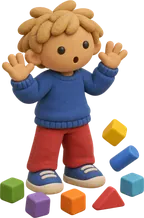
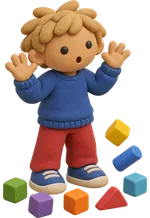
097: kid6 error picture gets a transparent side margin; test: no kid picture clipped by a side border (#1641 review)

diff --git a/scripts/test-realoffice-assets.ts b/scripts/test-realoffice-assets.ts
@@ -396,6 +396,24 @@ if (worldIds.includes('retro')) {
   else { const r = spawnSync('python3', ['-I', script, '--selftest'], { encoding: 'utf8' }); assert.strictEqual(r.status, 0, 'build-arcade-pack.py --selftest: ' + r.stdout + r.stderr); }
 }
 
+{
+  /* spec 097 FR-371 (issue #1641 review): no kid picture is clipped by a side border. A tight crop of a whole cube or stool may rest on the
+   * edge (the most in the shipped 42 is 47 rows of 220, a stool's flat side), a clipped figure runs far more: the count is of rows with
+   * alpha > 128 in the first and the last column (scripts/kid-edge-rows.py decodes the WebP; plain Node cannot): needs python3 with Pillow. */
+  const MAX_EDGE_ROWS = 48;
+  const have = spawnSync('python3', ['-I', '-c', 'import PIL'], { encoding: 'utf8' });
+  if (have.error || have.status !== 0) console.log('kid edge check skipped: needs python3 with Pillow (not on this machine)');
+  else {
+    const dir = path.join(RO, 'worlds', 'photo'), names = fs.readdirSync(dir).filter((f) => /^kid\d-\w+\.webp$/.test(f)).sort();
+    assert.strictEqual(names.length, 42, 'the edge check sees all 42 kid pictures');
+    const run = (args: string[]) => { const r = spawnSync('python3', ['-I', path.join(ROOT, 'scripts', 'kid-edge-rows.py'), ...args], { encoding: 'utf8' }); assert.strictEqual(r.status, 0, 'kid-edge-rows.py: ' + r.stderr); return r.stdout.trim().split('\n').map((l) => l.split(' ')); };
+    const bad = run(names.map((n) => path.join(dir, n))).filter(([, l, r]) => Number(l) > MAX_EDGE_ROWS || Number(r) > MAX_EDGE_ROWS).map(([n, l, r]) => `${n}: ${l} rows on the left edge, ${r} on the right`);
+    assert.deepStrictEqual(bad, [], `kid pictures clipped by a side border (more than ${MAX_EDGE_ROWS} opaque rows on an edge): re-cut with a margin`);
+    const red = run(['--red'])[0];
+    assert.ok(Number(red[1]) > MAX_EDGE_ROWS && Number(red[2]) === 0, 'red: a picture cut flat on its left edge (90 opaque rows) is over the limit');
+  }
+}
+
 // ---- packaging (FR-060, FR-061, T012): the build ships each pack's pictures and its script, never ASSETS.md or the JSON; the CSP is unchanged ----
 const copy = fs.readFileSync(path.join(ROOT, 'scripts', 'copy-assets.js'), 'utf8');
 assert.ok(/'worlds', 'world', 'DurbarRealOfficeWorlds'/.test(copy) && /'sets', 'set', 'DurbarRealOfficeSets'/.test(copy), 'copy-assets.js copies realoffice/worlds and realoffice/sets');

diff --git a/scripts/kid-edge-rows.py b/scripts/kid-edge-rows.py
@@ -1,0 +1,18 @@
+#!/usr/bin/env python3
+"""Rows with alpha > 128 in the first and the last column of each WebP given (spec 097 FR-371, used by test-realoffice-assets.ts).
+    python3 -I scripts/kid-edge-rows.py a.webp b.webp   ->  one line per file: <name> <left rows> <right rows>
+    python3 -I scripts/kid-edge-rows.py --red           ->  a built-in picture cut flat on its left edge (the test's red case)"""
+import os, sys
+from PIL import Image
+
+def rows(im):
+    a = im.convert('RGBA').getchannel('A'); w, h = a.size; p = a.load()
+    return [sum(p[x, y] > 128 for y in range(h)) for x in (0, w - 1)]
+
+if sys.argv[1:] == ['--red']:
+    im = Image.new('RGBA', (60, 90), (0, 0, 0, 0))
+    for y in range(90):
+        for x in range(30): im.putpixel((x, y), (200, 0, 0, 255))
+    print('red', *rows(im))
+else:
+    for f in sys.argv[1:]: print(os.path.basename(f), *rows(Image.open(f)))

diff --git a/src/renderer/realoffice/worlds/photo/ASSETS.md b/src/renderer/realoffice/worlds/photo/ASSETS.md
@@ -160,6 +160,7 @@ in the repository.
 - reference: `ref/kid6-ref.png` = kid 6 cropped from the style sheet `1-kids-sheet.png` (see *References* below), passed with `-i`; command: `timeout 600 codex exec --skip-git-repo-check --ephemeral -s workspace-write -C run-kid6 -i ref/kid6-ref.png -- "<prompt>" < /dev/null`
 - prompt: A wide landscape pose sheet, 2172x724 pixels, of the SAME single clay-toy kid shown in the attached reference image (kid 6: light olive clay skin, sandy blond messy tousled hair, blue knitted sweatshirt with ribbed cuffs, red trousers, blue sneakers; keep exactly this kid's clay look, skin tone, hair and clothes in every figure), shown SEVEN times in one row left to right, each a separate figure, with WIDE empty gaps between figures so no two figures or props touch or overlap, on a fully TRANSPARENT background (PNG with alpha channel; if transparency is impossible, a perfectly flat plain light grey background with no shadow plane). Fun and playful, cheeky but friendly expressions. 1 WORKING: sitting, happily typing on a tiny toy laptop, tongue poking out in concentration. 2 THINKING: standing, one finger on the chin, eyes looking up, holding a small toy light bulb in the other hand. 3 WAITING: sitting on a small wooden toy block, swinging legs, looking at a small round toy alarm clock beside it (the clock face has only two hands and plain dots, no numbers). 4 ERROR: a small toy block tower toppled at its feet, both hands up, mouth a round 'oops'. 5 OUT OF COINS: pockets turned out, holding a tiny empty toy piggy bank upside down, a comic shrug. 6 DONE: jumping in the air, both arms up, cheering, big happy smile, no confetti. 7 ASLEEP: curled up asleep on top of a small zipped pencil case, eyes closed as simple curved lines, no zzz letters. Every figure is a stylised handmade plasticine / Play-Doh toy, clearly a toy, never a realistic child: rounded soft clay shapes, smooth matte clay with faint fingerprint marks, simple dot eyes, stubby hands with simple clay fingers; invented fictional figure, no likeness of any real person, fully dressed. Same slightly elevated three-quarter front camera about 20 degrees down as the reference, soft warm daylight, gentle soft shadows on the figures only. Photoreal 3D render of clay toys, cute, friendly, not creepy. No text, no letters, no numbers, no logos, no labels.
 - cut: the sheet's alpha channel is the generator's own (no background removal, alpha below 10 cleared): the 7 largest alpha blobs are the figures, left to right = working, thinking, waiting, error, limit, done, asleep, props and toppled blocks join the nearest figure, each cut to its bounding box; the **error** pose is from the round-3 image `kid6-error` (a properly toppled tower), scaled to the old figure's height and bottom-aligned in its slot; then `scripts/build-kid-pack.py`: every picture resized by 0.5 (LANCZOS, one scale for all 42 pictures so a pose is never stretched against another, at most 264 px tall), WebP quality 80, method 6, with alpha, no EXIF, XMP or ICC chunk; `world.json` `kids.kid6` keeps the reference pose's (`limit`, standing) `bodyH`, `w`, `h`, `headTop`, the head's `face` box [x, y, w, h], every pose's [w, h] and the `widest` pose, all in shipped pixels; the head box was drawn by hand on a contact sheet and looked at
+- re-cut: 2026-11-13, #1672 review (fjcabello): `kid6-error.webp` rested on both side borders (the green and the teal cube are the picture's tight bounding box: 22 and 17 rows with alpha above 0 at x 0 and x 143, 14 and 13 above 128). The cube was whole in the source and in the cut (looked at at 4x on dark and light; the generator's image 1122x1402 has a clear margin and no block is cut), so nothing was clipped and no pixel was invented; the picture now has 6 transparent columns of margin (3 px shipped) on each side: `cut/kid6/error.png` 287x436 padded to 299x436 (Pillow, transparent, picture pasted at x 6), then `scripts/build-kid-pack.py` as above on that cut folder: 150x218 (was 144x218), 13,004 bytes (was 12,768), well under the 80 KB cap; `world.json` `kids.kid6.poses.error` is [150, 218] (was [144, 218]); `widest` stays `asleep` (157). A rebuild of the other 41 pictures from their unchanged cut-outs gave byte-identical files first (git status clean), and again after. The new test (`scripts/kid-edge-rows.py` in `test-realoffice-assets`) fails a kid picture with more than 48 opaque rows on a side border; the stools of the 'waiting' poses rest on the edge with up to 47 rows (a cube's flat side, whole), so a pixel count cannot tell a flat side from a cut: the review's look at 4x is the real check.
 - licence: MIT
 
 ## References (generated the same day, not shipped)

diff --git a/specs/097-real-office/spec.md b/specs/097-real-office/spec.md
@@ -1582,4 +1582,5 @@ The ubuntu job 130431427021 of run 42993326053 failed `check-097-hover-card` at 
 
 - `[KNOWN GAP]` `/speckit.plan` and `/speckit.analyze` are not run for FR-368..FR-376 and `plan.md` is not updated in this spec-only change; both are due before the first code PR of #1642 (T330), which updates the plan if the kid zone needs a new renderer module.
 - **Art landed 2026-11-13 (issue #1641, T328, T329, T337; the code is #1642).** File layout (the spec left it open; the simplest): the kid pictures are 42 WebP files `kid<N>-<state>.webp` (N 1..6; states `working thinking waiting error limit done asleep`; `idle` uses `done`) in `src/renderer/realoffice/worlds/photo/`, beside the desk, and `world.json` gets a `kids` block `{ kidN: { ref: "limit", bodyH, w, h, headTop, face: [x, y, w, h], poses: { <state>: [w, h] }, widest } }`, all in **shipped pixels** at one 0.5 scale (the standing `limit` pose is the reference figure: `bodyH` = its height, `headTop` its crown row, `face` the head from hair to chin; `widest` names the widest pose, whose box is the place of FR-369). The Photo office `desk.webp` and `desk.h.webp` and the Cave `desk.webp` are the old pictures without the mug and the lamp (local Pillow patches, no new generation; `ASSETS.md`). The owner's likeness check of the six kids is `pending (Vikram)`.
+- **Kid art review fix 2026-11-13 (#1672, fjcabello).** `kid6-error.webp` rested on both side borders (tight crop of whole cubes, not a clip); it now has 3 px of transparent margin each side: 150x218 (was 144x218), `poses.error` is [150, 218], `widest` unchanged; the other 41 pictures are byte-identical. `test-realoffice-assets` fails a kid picture with more than 48 opaque rows on a side border (a clipped figure); see ASSETS.md, kid6.
 - `[KNOWN GAP]` Not built, not measured in the app, not seen in the app by the owner (the mock-up is a composite on a repo screenshot). The free-area numbers are `read:` arithmetic, not `sim:`. Windows and macOS: nothing to verify until #1642.
